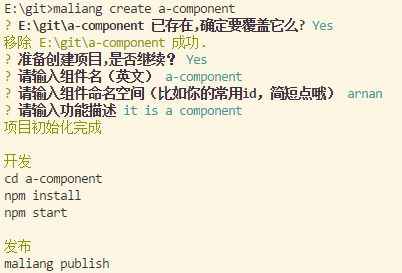
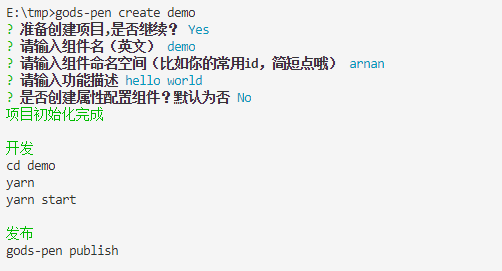
更新图片

Changed region(s): [[0.0, 0.0, 0.8358, 0.797], [0.0, 0.8266, 0.2687, 1.0], [0.8657, 0.3247, 0.9552, 0.3838]]

diff --git a/docs/develop/component.md b/docs/develop/component.md
@@ -10,7 +10,7 @@
 npm install gods-pen-cli -g
 ```
 
-![](../assets/img/maliang-cli.png)
+![](../assets/img/maliang-cli.jpg)
 
 ## 设置`registry`
 
@@ -260,7 +260,7 @@ gods-pen-publish
 # gods-pen-publish --skip-build
 ```
 
-![](../assets/img/maliang-publish.png)
+![](../assets/img/maliang-publish.jpg)
 
 如果组件已成功构建过，也可以添加参数 `--skip-build` 跳过构建步骤
 
